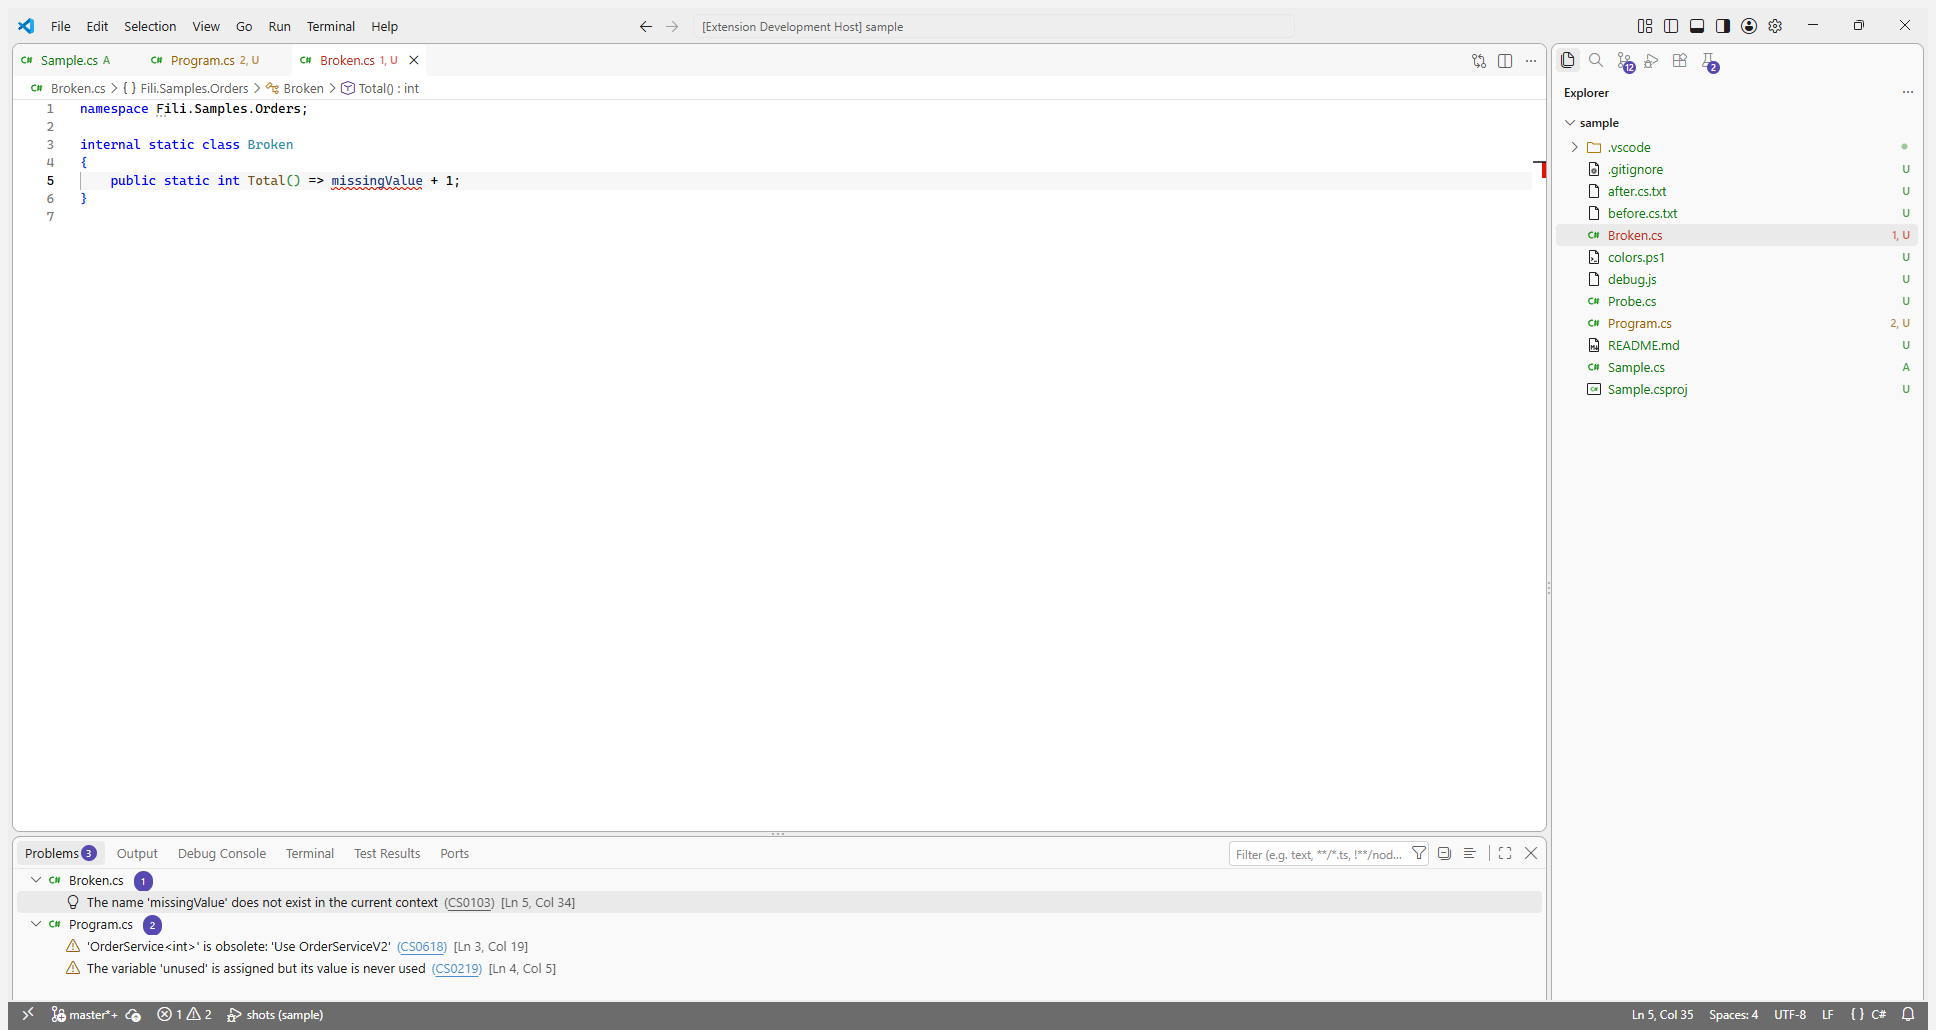
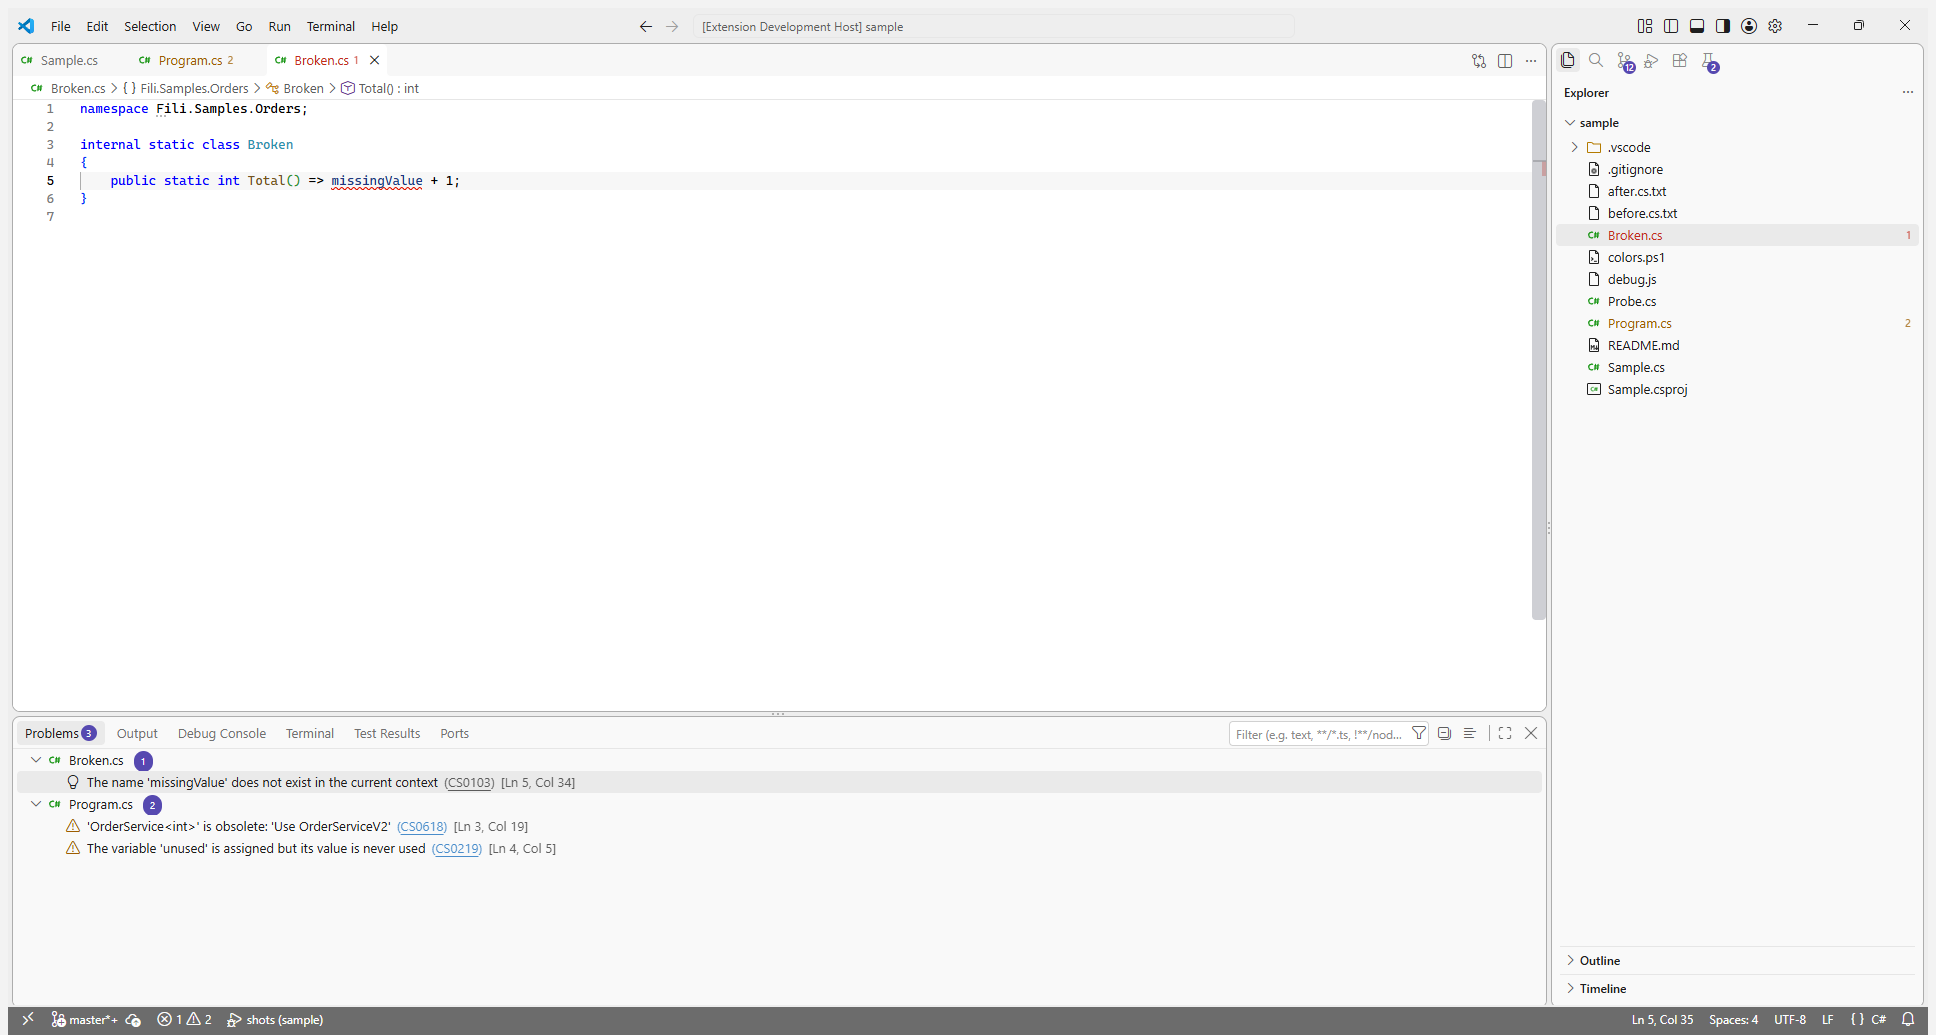
Retake the screenshots without Git name tinting
The README screenshots showed every file name in the Explorer in green. That
was not the theme: they were taken in a scratch repository with nothing
committed, so VS Code marked every file untracked and tinted its name with the
Git "added" colour. Visual Studio never tints names in Solution Explorer, so
the images misrepresented the look.

All five images (Dark, Light, the debugger, Problems and the fifteen-theme
gallery) are retaken with Git decorations off, so the tree shows the theme's
own text colour. The remaining red and yellow names in the Problems shot are
files with real errors and warnings.

The README's recommended settings add workbench.editor.decorations.colors
next to explorer.decorations.colors, since tab titles are tinted the same
way, and CLAUDE.md notes that screenshots need Git decorations off or a
folder that is not a git repository.

diff --git a/CLAUDE.md b/CLAUDE.md
@@ -110,6 +110,9 @@ marketplace page. Add the `repository` field and drop both flags before publishi
 
 `npm run build` proves structure and contrast, not appearance. To see it, press F5 (Extension
 Development Host) with a C# project open and the C# extension installed — semantic colours only
-appear once its Roslyn server has loaded the project. The reference captures used for the first
+appear once its Roslyn server has loaded the project. For screenshots, open a folder that is not a
+git repository or turn off `git.decorations.enabled`: in a repo with nothing committed, VS Code
+tints every file name with the Git "added" colour, which looks like a green tree and is not the
+theme. The reference captures used for the first
 release were taken from VS 2026 18.x started with `devenv /rootsuffix <name>` (an isolated
 settings hive), so the user's own Visual Studio configuration is never touched.

diff --git a/README.md b/README.md
@@ -201,8 +201,11 @@ you want to your user `settings.json`:
   "explorer.compactFolders": false,
   // Solution Explorer shows project items, not build output. This also hides them from search.
   "files.exclude": { "**/bin": true, "**/obj": true, "**/.vs": true },
-  // Optional: Solution Explorer marks Git state with glyphs, not by tinting file names.
-  "explorer.decorations.colors": false
+  // Optional: Visual Studio marks Git state with glyphs and never tints file names, in Solution
+  // Explorer or on tabs. Without these, VS Code colours every untracked or changed file green,
+  // yellow or red, which in a new repository means every name in the tree.
+  "explorer.decorations.colors": false,
+  "workbench.editor.decorations.colors": false
 }
 ```
 
